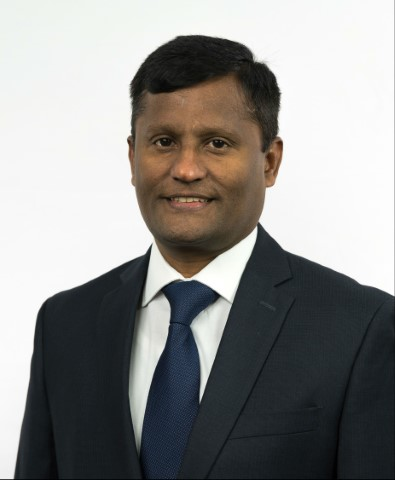
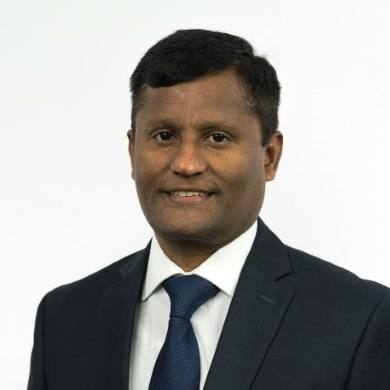
Added real people pictures

Changed region(s): [[0.0, 0.0, 1.0, 1.0], [0.6154, 0.0923, 0.7077, 0.1846], [0.1231, 0.9846, 0.1538, 1.0]]

diff --git a/health-hack-app/src/app/services/notifications.service.ts b/health-hack-app/src/app/services/notifications.service.ts
@@ -8,19 +8,29 @@ export class Notifications {
   constructor() {
       this.notifications = [];
       this.notifications.push({
-        img: '<img class="post-img" src="./assets/meep.jpg">',
-        time: '<p class="post-date">10:31 March 31, 2018</p>',
-        html: '<p class="post-message">Meep Berger completed some learning!</p>'
+        img: '<img class="img-thumbnail" src="./assets/Gibbons_Sean.jpg">',
+        time: '<p class="post-date">Sat Apr 07 2018</p>',
+        html: '<p class="post-message">Sean achieved his daily step goal!</p>'
       });
       this.notifications.push({
-        img: '<img class="post-img" src="./assets/meep.jpg">',
-        time: '<p class="post-date">10:31 March 31, 2018</p>',
-        html: '<p class="post-message">Meep Berger completed some learning!</p>'
+        img: '<img class="img-thumbnail" src="./assets/Berger_Tamra.jpg">',
+        time: '<p class="post-date">Fri Apr 06 2018</p>',
+        html: '<p class="post-message">Tamra completed some learning!</p>'
       });
       this.notifications.push({
-        img: '<img class="post-img" src="./assets/meep.jpg">',
-        time: '<p class="post-date">10:31 March 31, 2018</p>',
-        html: '<p class="post-message">Meep Berger completed some learning!</p>'
+        img: '<img class="img-thumbnail" src="./assets/Banko_Peter.jpg">',
+        time: '<p class="post-date">Wed Apr 04 2018</p>',
+        html: '<p class="post-message">Peter achieved his daily step goal!</p>'
+      });
+      this.notifications.push({
+        img: '<img class="img-thumbnail" src="./assets/CHELLADURAI_PRABHAKARAN.jpg">',
+        time: '<p class="post-date">Tue Apr 03 2018</p>',
+        html: '<p class="post-message">Prabhakaran completed some learning!</p>'
+      });
+      this.notifications.push({
+        img: '<img class="img-thumbnail" src="./assets/Ondrus_Keri.jpg">',
+        time: '<p class="post-date">Sun Apr 01 2018</p>',
+        html: '<p class="post-message">Keri completed some learning!</p>'
       });
   }
 

diff --git a/health-hack-app/src/app/family/family.component.html b/health-hack-app/src/app/family/family.component.html
@@ -3,53 +3,24 @@
 
   <div class="social-container">
     <div class="page-titling ">
-      <h1>My Family(6)</h1>
+      <h1>My Family(2)</h1>
     </div>
     <div class="flex-container">
 
       <div class="friend-box social-container col-sm-3">
         <div class="image">
-          <img class="img-thumbnail" src="./assets/meep.jpg">
+          <img class="img-thumbnail" src="./assets/Huberty_Matthew.jpg">
         </div>
-        <h4>Meep Berger</h4>
-        <p>Points: 40,000</p>
+        <h4>Matt Huberty</h4>
+        <p>Points: 2,120</p>
       </div>
 
       <div class="friend-box social-container col-sm-3">
         <div class="image">
-          <img class="img-thumbnail" src="./assets/meep.jpg">
+          <img class="img-thumbnail" src="./assets/Ondrus_Joseph.jpg">
         </div>
-        <h4>Meep Berger</h4>
-        <p>Points: 40,000</p>
-      </div>
-
-      <div class="friend-box social-container col-sm-3">
-        <div class="image">
-          <img class="img-thumbnail" src="./assets/meep.jpg">
-        </div>
-        <h4>Meep Berger</h4>
-        <p>Points: 40,000</p>
-      </div>
-      <div class="friend-box social-container col-sm-3">
-        <div class="image">
-          <img class="img-thumbnail" src="./assets/meep.jpg">
-        </div>
-        <h4>Meep Berger</h4>
-        <p>Points: 40,000</p>
-      </div>
-      <div class="friend-box social-container col-sm-3">
-        <div class="image">
-          <img class="img-thumbnail" src="./assets/meep.jpg">
-        </div>
-        <h4>Meep Berger</h4>
-        <p>Points: 40,000</p>
-      </div>
-      <div class="friend-box social-container col-sm-3">
-        <div class="image">
-          <img class="img-thumbnail" src="./assets/meep.jpg">
-        </div>
-        <h4>Meep Berger</h4>
-        <p>Points: 40,000</p>
+        <h4>Joe Ondrus</h4>
+        <p>Points: 220</p>
       </div>
 
     </div>

diff --git a/health-hack-app/src/app/friends/friends.component.html b/health-hack-app/src/app/friends/friends.component.html
@@ -7,30 +7,30 @@
 
       <div class="friend-box social-container col-sm-3">
         <div class="image">
-        <img class=" img-thumbnail" src="./assets/meep.jpg"></div>
-        <h4>Meep Berger</h4>
-        <p>Points: 40,000</p>
+        <img class="img-thumbnail" src="./assets/Banko_Peter.jpg"></div>
+        <h4>Peter Banko</h4>
+        <p>Points: 3,400</p>
       </div>
 
       <div class="friend-box social-container col-sm-3">
           <div class="image">
-          <img class="img-thumbnail" src="./assets/meep.jpg"></div>
-          <h4>Meep Berger</h4>
-          <p>Points: 40,000</p>
+          <img class="img-thumbnail" src="./assets/Berger_Tamra.jpg"></div>
+          <h4>Tamra Berger</h4>
+          <p>Points: 4,600</p>
         </div>
 
         <div class="friend-box social-container col-sm-3">
-            <div class="image">
-            <img class="img-thumbnail" src="./assets/meep.jpg"></div>
-            <h4>Meep Berger</h4>
-            <p>Points: 40,000</p>
-          </div>
-          <div class="friend-box social-container col-sm-3">
-              <div class="image">
-              <img class="img-thumbnail" src="./assets/meep.jpg"></div>
-              <h4>Meep Berger</h4>
-              <p>Points: 40,000</p>
-            </div>
+          <div class="image">
+          <img class="img-thumbnail" src="./assets/CHELLADURAI_PRABHAKARAN.jpg"></div>
+          <h4>Prabhakaran Chelladurai</h4>
+          <p>Points: 3,880</p>
+        </div>
+        <div class="friend-box social-container col-sm-3">
+          <div class="image">
+          <img class="img-thumbnail" src="./assets/Gibbons_Sean.jpg"></div>
+          <h4>Sean Gibbons</h4>
+          <p>Points: 5,250</p>
+        </div>
 
 </div>
 </div>

diff --git a/health-hack-app/src/app/home-page/home-page.component.html b/health-hack-app/src/app/home-page/home-page.component.html
@@ -8,31 +8,31 @@
       <div class="leader social-container">
         <h3>1st Place</h3>
         <div class="leader-image">
-          <img class=" img-thumbnail" src="./assets/meep.jpg">
+          <img class=" img-thumbnail" src="./assets/Gibbons_Sean.jpg">
         </div>
-        <h4>Meep Berger</h4>
-        <p>Points: 40,000</p>
+        <h4>Sean Gibbons</h4>
+        <p>Points: 5,250</p>
       </div>
       <div class="leader social-container">
         <h3>2nd Place</h3>
         <div class="leader-image">
-          <img class=" img-thumbnail" src="./assets/meep.jpg">
+          <img class="img-thumbnail" src="./assets/Berger_Tamra.jpg">
         </div>
-        <h4>Meep Berger</h4>
-        <p>Points: 40,000</p>
+        <h4>Tamra Berger</h4>
+        <p>Points: 4,600</p>
       </div>
       <div class="leader social-container">
         <h3>3rd Place</h3>
         <div class="leader-image">
-          <img class=" img-thumbnail" src="./assets/meep.jpg">
+          <img class="img-thumbnail" src="./assets/CHELLADURAI_PRABHAKARAN.jpg">
         </div>
-        <h4>Meep Berger</h4>
-        <p>Points: 40,000</p>
+        <h4>Prabhakaran Chelladurai</h4>
+        <p>Points: 3,880</p>
       </div>
       <div class="leader social-container">
         <h3>6th Place</h3>
         <div class="leader-image">
-          <img class=" img-thumbnail" src="./assets/meep.jpg">
+          <img class="img-thumbnail" src="./assets/Ondrus_Keri.jpg">
         </div>
         <h4>You</h4>
         <p>Points: 450</p>

diff --git a/health-hack-app/src/app/navbar/navbar.component.html b/health-hack-app/src/app/navbar/navbar.component.html
@@ -4,7 +4,7 @@
       </div>
   </div>
   <br>
-  <p class="text-center welcome">Welcome, Neal!</p>
+  <p class="text-center welcome">Welcome, Keri!</p>
   <img class="trophy" width="200px" alt="Trophy" src="./assets/shortcut.jpg">
   <p class="text-center score">Current Score: </p>
   <p class="text-center welcome"><strong>450</strong> </p>

diff --git a/health-hack-app/src/styles.css b/health-hack-app/src/styles.css
@@ -39,6 +39,7 @@ body {
   margin:10px;
   background-color: #E1F5FE;
   max-width: 225px;
+  text-align: center;
 }
 
 .image{
@@ -48,8 +49,7 @@ body {
 }
 .image img{
     position: absolute;
-    max-width: 200px;
-    max-height: 200px;
+    width: 200px;
     top: 50%;
     left: 50%;
     transform: translateX(-50%) translateY(-50%);

diff --git a/health-hack-app/src/app/home-page/home-page.component.css b/health-hack-app/src/app/home-page/home-page.component.css
@@ -17,6 +17,7 @@
 .leader-image {
   width: 100px;
   margin-left: 50px;
+  margin-right: 20px;
 }
 .post-date {
   font-size: medium;
